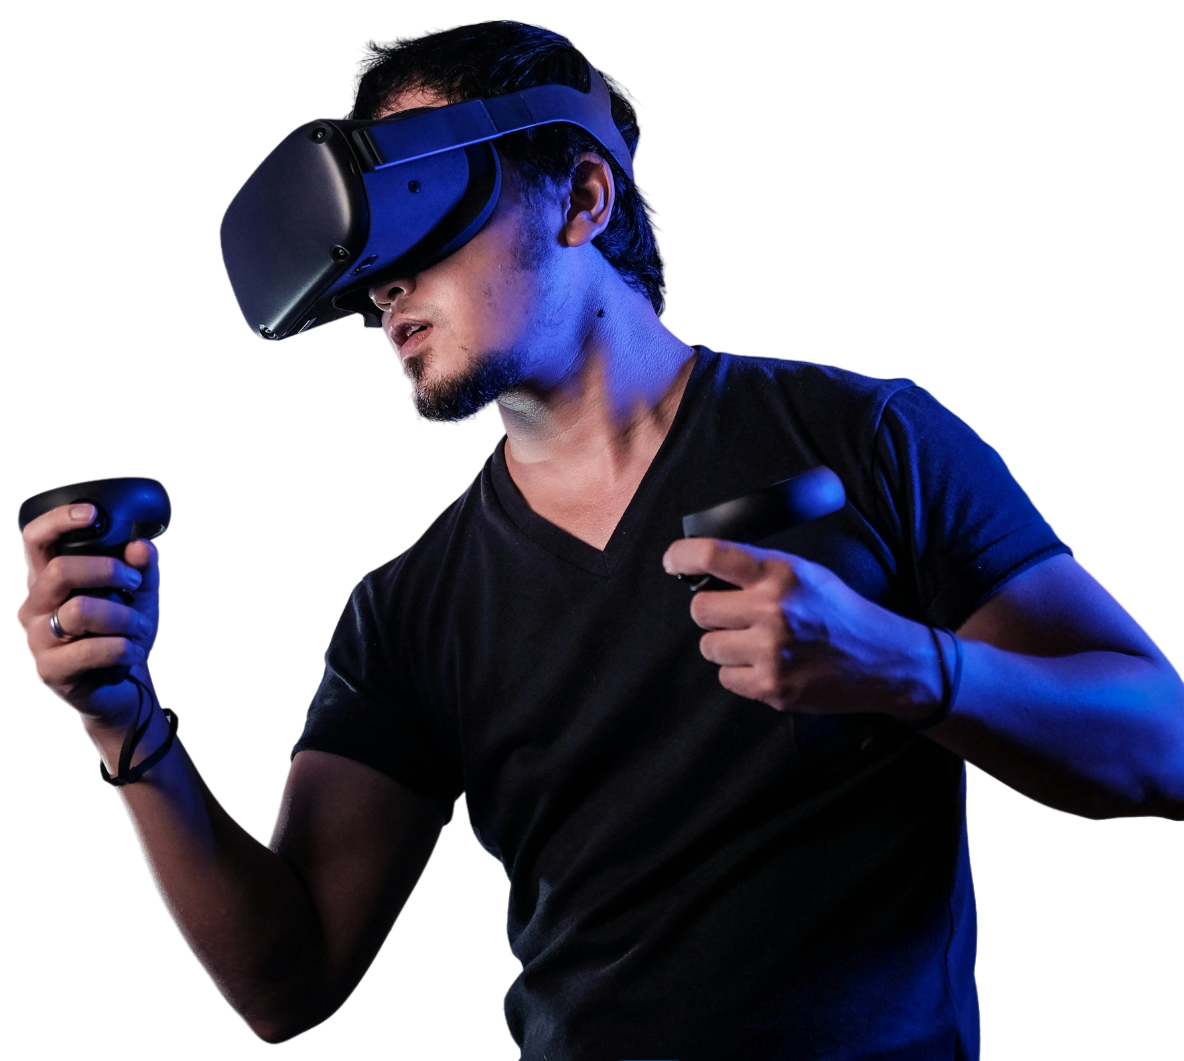
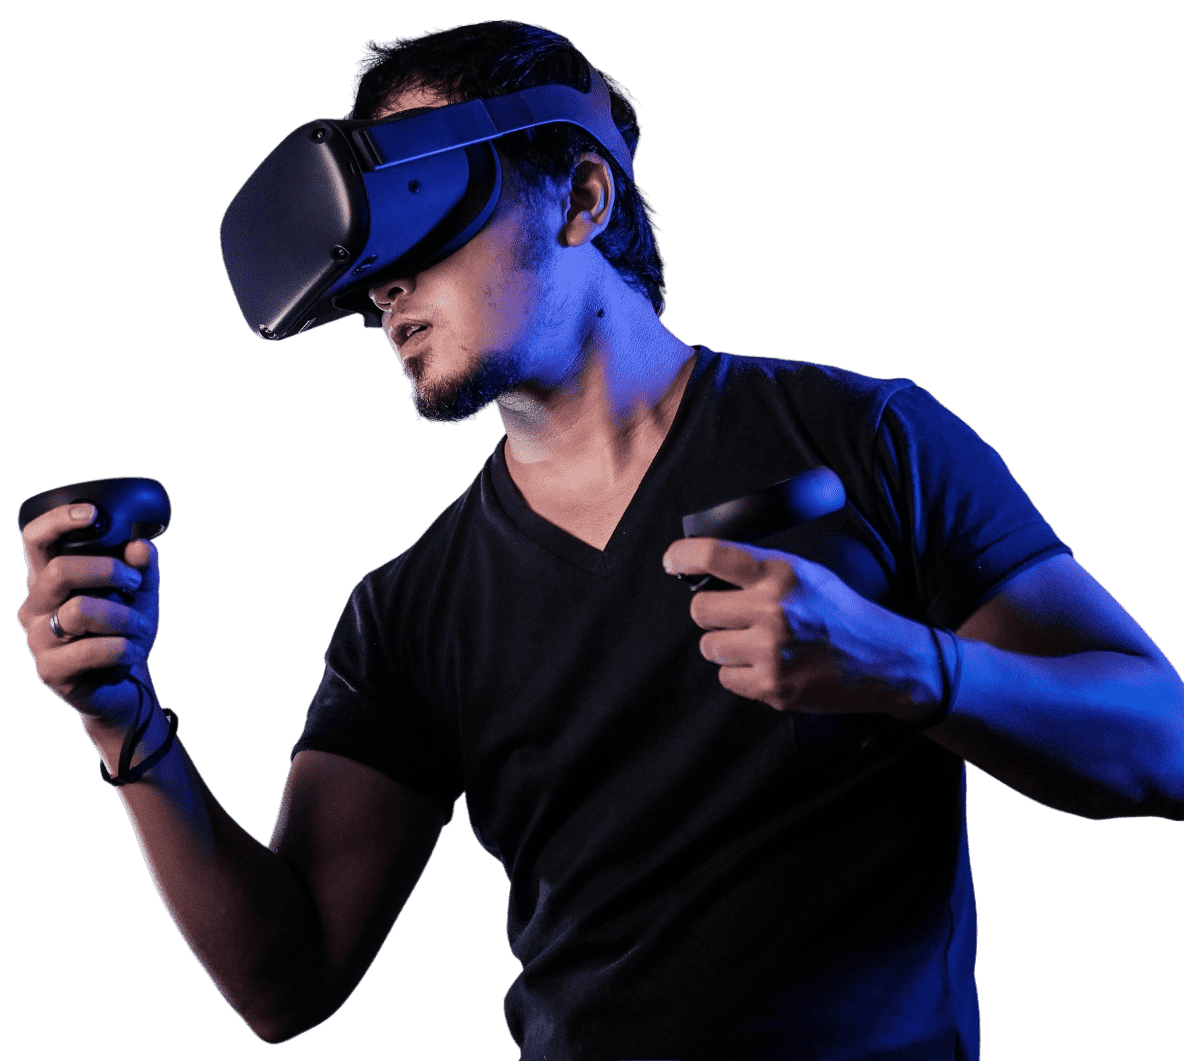
image compressed and docs updated

diff --git a/src/app/layout.tsx b/src/app/layout.tsx
@@ -64,11 +64,11 @@ export default function RootLayout({
   return (
     <html lang="en" className="scroll-smooth" suppressHydrationWarning={true}>
       <body className={workSans.className} suppressHydrationWarning={true}>
-        <div className=" sticky top-0 w-full z-50 bg-background/95 backdrop-blur supports-[backdrop-filter]:bg-background/60">
+        <header className=" sticky top-0 w-full z-50 bg-background/95 backdrop-blur supports-[backdrop-filter]:bg-background/60">
           <Container>
             <Navbar />
           </Container>
-        </div>
+        </header>
         <main>{children}</main>
         <Footer2 />
       </body>
